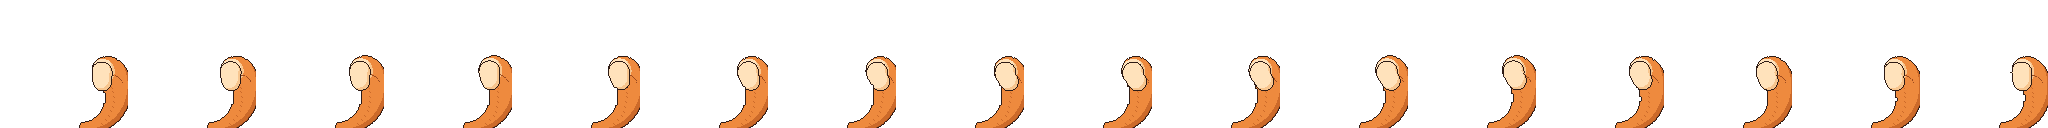
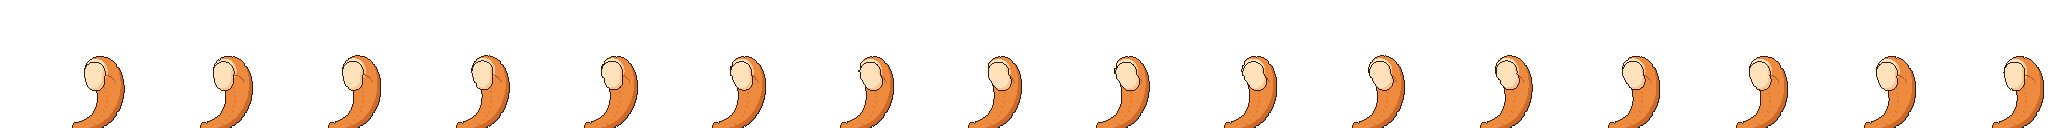
Natural tail motion (eased sway, holds, random flicks) + fix tail tip clipping

diff --git a/js/app.js b/js/app.js
@@ -8,7 +8,7 @@ const canvas = $('c'), ctx = canvas.getContext('2d');
 const video = $('video');
 const off = document.createElement('canvas'), octx = off.getContext('2d');      // 원본 해상도 합성
 const hc = document.createElement('canvas'), hctx = hc.getContext('2d');        // 머리 그룹 (롤 회전용)
-import { mic, startMic, micTick } from './mic.js?v=20261020-tail16';
+import { mic, startMic, micTick } from './mic.js?v=20261020-tailnat';
 const CHARS = { fox3: 'assets/fox3/', fox2: 'assets/fox2/', test: 'assets/test/' };
 let ch = null; // {key, base, m, img, S}
 
@@ -162,18 +162,40 @@ function angleRow() {
   if (ch.nYaw === 1) return 0;
   return (p + 1) * ch.nYaw + (k + 2);
 }
-// 꼬리: N프레임 순환. 한 바퀴 시간 = 평온 3.6초 → 최고 신남 1.2초.
-// 속도는 6단계로 양자화하고 0.5초마다 한 단계씩만 바뀌어 갑자기 빨라지지 않음.
-const TAIL_CALM = 3600, TAIL_EXC = 1200, TAIL_STEPS = 5;
-const tailSt = { phase: 0, last: 0, step: 0, stepAt: 0 };
+// 꼬리: N프레임(위상 0..1, 0.25/0.75 = 좌우 끝). 자연스러운 움직임:
+//  - 한 번의 흔들기 안에서 속도 변화 (끝에서 천천히 머물고 가운데는 빠르게 휙)
+//  - 끝에서 가끔 멈춤(hold), 가끔 2~3번 빠른 '휙휙'(flick), 랜덤이라 같은 패턴 반복 안 함
+//  - 신남: 기본 주기 3.6초 → 1.2초 (6단계, 0.5초마다 한 단계), flick 잦아지고 멈춤 짧아짐
+const TAIL_CALM = 3600, TAIL_EXC = 1200, TAIL_STEPS = 5, TAIL_FLICK = 750;
+const tailSt = { phase: 0, last: 0, step: 0, stepAt: 0, holdUntil: 0, flick: 0 };
+const ease = ph => 0.35 + 1.65 * Math.abs(Math.cos(2 * Math.PI * ph)); // 끝(0.25,0.75)에서 느림
+const EASE_MEAN = 0.35 + 1.65 * 2 / Math.PI;
 function tailFrame(t, ex) {
   const n = (ch.m.tail | 0) || ((I_tailW() / ch.S) | 0) || 1;
   const dt = Math.min(200, t - (tailSt.last || t)); tailSt.last = t;
   const want = Math.round(Math.max(0, Math.min(1, ex)) * TAIL_STEPS);
   if (want !== tailSt.step && t - tailSt.stepAt > 500) { tailSt.step += Math.sign(want - tailSt.step); tailSt.stepAt = t; }
-  const period = TAIL_CALM + (TAIL_EXC - TAIL_CALM) * tailSt.step / TAIL_STEPS;
-  tailSt.phase = (tailSt.phase + dt / period) % 1;
-  window.__tail = { n, step: tailSt.step, period };
+  const x = tailSt.step / TAIL_STEPS;
+  const period = TAIL_CALM + (TAIL_EXC - TAIL_CALM) * x;
+  if (t >= tailSt.holdUntil) {
+    const per = tailSt.flick > 0 ? TAIL_FLICK : period;
+    const prev = tailSt.phase;
+    let ph = prev + dt / per * ease(prev) / EASE_MEAN;
+    // 끝을 지날 때: 가끔 멈춤
+    for (const edge of [0.25, 0.75]) {
+      if (prev < edge && ph >= edge && tailSt.flick === 0 && Math.random() < 0.45 - 0.25 * x) {
+        ph = edge; tailSt.holdUntil = t + (1 - 0.7 * x) * (350 + Math.random() * 1100);
+      }
+    }
+    // 한 바퀴 끝: flick 진행/시작
+    if (ph >= 1) {
+      ph -= 1;
+      if (tailSt.flick > 0) tailSt.flick--;
+      else if (Math.random() < 0.08 + 0.3 * x) tailSt.flick = 2 + (Math.random() < 0.5 ? 1 : 0);
+    }
+    tailSt.phase = ph;
+  }
+  window.__tail = { n, step: tailSt.step, period, flick: tailSt.flick, hold: t < tailSt.holdUntil };
   return Math.floor(tailSt.phase * n) % n;
 }
 function I_tailW() { return ch.img.tail ? ch.img.tail.width : 0; }

diff --git a/index.html b/index.html
@@ -1,6 +1,6 @@
 <!doctype html><html lang="ko"><head><meta charset="utf-8">
 <meta name="viewport" content="width=device-width,initial-scale=1,viewport-fit=cover">
-<title>픽셀 VTuber — 퇴근여우</title><link rel="icon" href="data:,"><link rel="stylesheet" href="style.css?v=20261020-tail16"></head><body>
+<title>픽셀 VTuber — 퇴근여우</title><link rel="icon" href="data:,"><link rel="stylesheet" href="style.css?v=20261020-tailnat"></head><body>
 <div id="stage"><canvas id="c" width="96" height="96"></canvas></div>
 <div id="hud"><span id="fps">FPS: -</span> <span id="status">대기 중</span> <span id="pose"></span><div id="meter" hidden>신남 <span class="track"><span id="meterBar"></span></span></div></div>
 <video id="video" playsinline muted autoplay></video>
@@ -26,4 +26,4 @@
  <button id="clean">클린 뷰 (OBS용)</button>
  <p class="hint">단축키: 1 자동 · 2 웃음 · 3 피곤 · 4 놀람 · 5 의기양양 · h 클린 뷰 · Esc/더블탭 해제</p>
 </div>
-<script type="module" src="js/app.js?v=20261020-tail16"></script></body></html>
+<script type="module" src="js/app.js?v=20261020-tailnat"></script></body></html>

diff --git a/README.md b/README.md
@@ -14,4 +14,4 @@ URL 옵션: ?demo=1 (카메라 없이 각도·표정 순환), ?char=test, ?mirro
 단축키: 1–5 표정, h 클린 뷰, Esc/더블탭 해제
 
 ## 마이크 신남 감지
-'🎤 마이크 켜기'를 누르면 음량(최근 10초 자동 보정)·음높이(본인 평균 대비)·에너지 변동으로 신남 점수(0~1)를 계산합니다. 신날수록 귀가 계단식으로 들썩이고 꼬리(16프레임)가 서서히 빨라지며(한 바퀴 3.6초→1.2초, 0.5초마다 한 단계씩), 아주 신나면 통통 튀고 반짝이가 추가됩니다. 0.7초 이상 신나면 표정이 '웃음+반짝'으로 바뀝니다(체크 해제로 끄기, 얼굴 추적 놀람이 우선). '신남 감도' 슬라이더로 조절. 마이크는 브라우저 밖으로 전송되지 않습니다.
+'🎤 마이크 켜기'를 누르면 음량(최근 10초 자동 보정)·음높이(본인 평균 대비)·에너지 변동으로 신남 점수(0~1)를 계산합니다. 신날수록 귀가 계단식으로 들썩이고 꼬리(16프레임)는 끝에서 천천히 머물고 가운데는 빠르게 휙 지나가며, 가끔 멈추거나 2~3번 '휙휙' 칩니다. 신날수록 기본 주기가 서서히 빨라지고(3.6초→1.2초, 0.5초마다 한 단계) 휙휙이 잦아집니다, 아주 신나면 통통 튀고 반짝이가 추가됩니다. 0.7초 이상 신나면 표정이 '웃음+반짝'으로 바뀝니다(체크 해제로 끄기, 얼굴 추적 놀람이 우선). '신남 감도' 슬라이더로 조절. 마이크는 브라우저 밖으로 전송되지 않습니다.
